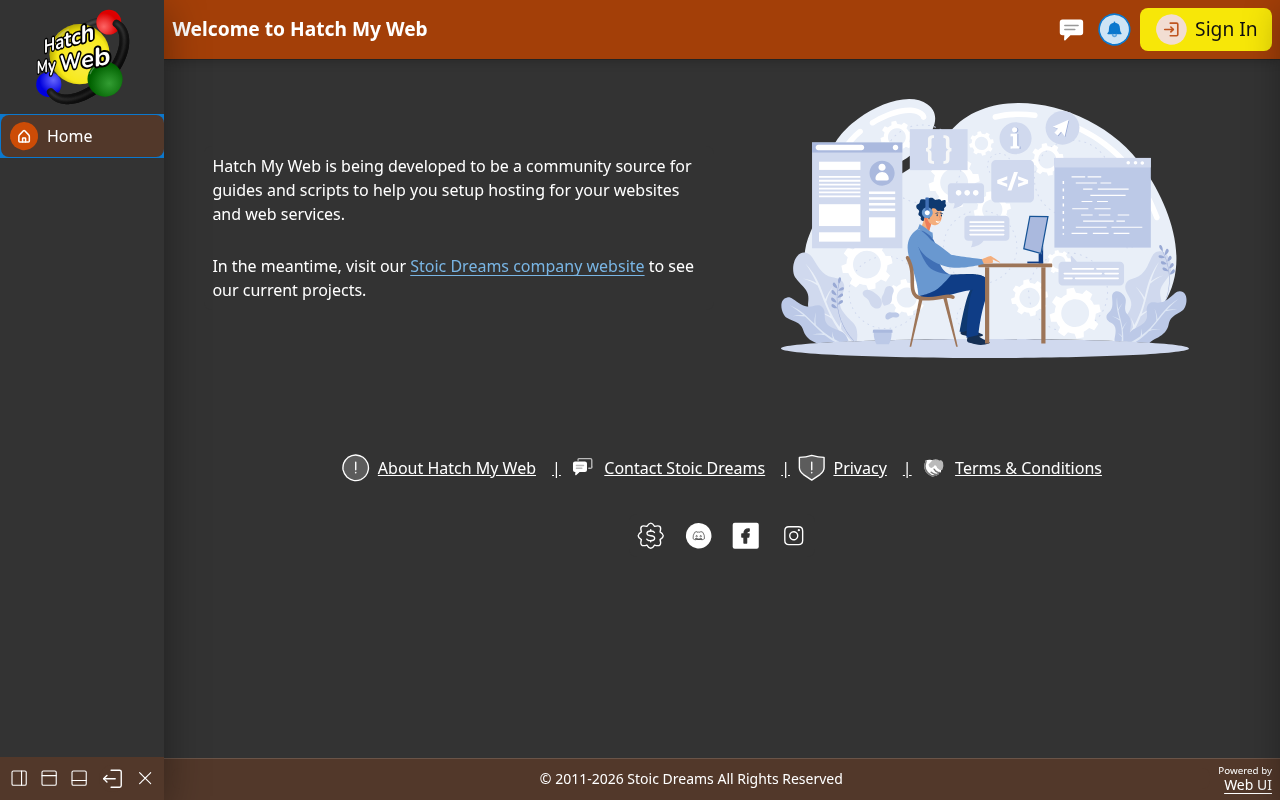
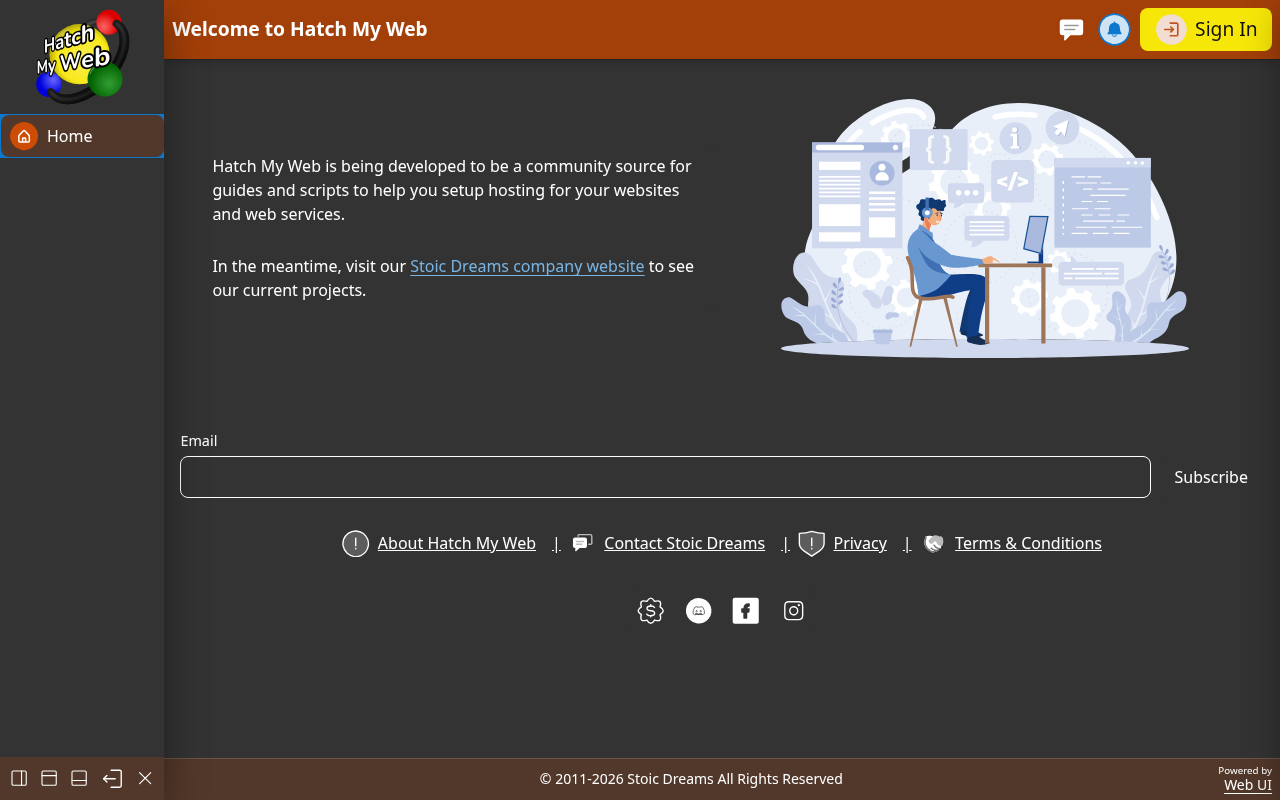
Stoic Dreams newsletter signup Feature: The footer has the Stoic Dreams newsletter signup form, as stoicdreams.com does

diff --git a/webapp/root_files/service-worker.min.js b/webapp/root_files/service-worker.min.js
@@ -1,1 +1,1 @@
-self.addEventListener("install",t=>t.waitUntil(onInstall(t))),self.addEventListener("activate",t=>t.waitUntil(onActivate(t))),self.addEventListener("fetch",t=>{const e=new URL(t.request.url);e.protocol==="ipc:"||e.protocol==="tauri:"||e.hostname==="ipc.localhost"||e.hostname==="tauri.localhost"||e.hostname.startsWith("127")||e.hostname==="localhost"||t.request.url.startsWith("http")&&allowCache(t.request)&&t.respondWith(onFetch(t))});const currentVersion="0.1.29",cacheNamePrefix="offline-cache-",cacheName=`${cacheNamePrefix}${currentVersion}`;async function onInstall(t){self.skipWaiting()}async function onActivate(t){const e=await caches.keys();await Promise.all(e.filter(a=>a.startsWith(cacheNamePrefix)&&a!==cacheName).map(a=>caches.delete(a))),await self.clients.claim()}async function onFetch(t){const e=await caches.open(cacheName);let a;try{a=await fetch(applyCacheBusting(t.request))}catch(n){const c=await e.match(t.request);if(c)return c;throw n}return a.ok?(t.waitUntil(e.put(t.request,a.clone()).catch(()=>{})),a):await e.match(t.request)||a}function applyCacheBusting(t){try{const e=new URL(t.url);return e.searchParams.set("_",Date.now()),new Request(e.toString(),t)}catch{return t}}function allowCache(t){return!(t.method!=="GET"||t.mode==="navigate")}
+self.addEventListener("install",t=>t.waitUntil(onInstall(t))),self.addEventListener("activate",t=>t.waitUntil(onActivate(t))),self.addEventListener("fetch",t=>{const e=new URL(t.request.url);e.protocol==="ipc:"||e.protocol==="tauri:"||e.hostname==="ipc.localhost"||e.hostname==="tauri.localhost"||e.hostname.startsWith("127")||e.hostname==="localhost"||t.request.url.startsWith("http")&&allowCache(t.request)&&t.respondWith(onFetch(t))});const currentVersion="0.1.30",cacheNamePrefix="offline-cache-",cacheName=`${cacheNamePrefix}${currentVersion}`;async function onInstall(t){self.skipWaiting()}async function onActivate(t){const e=await caches.keys();await Promise.all(e.filter(a=>a.startsWith(cacheNamePrefix)&&a!==cacheName).map(a=>caches.delete(a))),await self.clients.claim()}async function onFetch(t){const e=await caches.open(cacheName);let a;try{a=await fetch(applyCacheBusting(t.request))}catch(n){const c=await e.match(t.request);if(c)return c;throw n}return a.ok?(t.waitUntil(e.put(t.request,a.clone()).catch(()=>{})),a):await e.match(t.request)||a}function applyCacheBusting(t){try{const e=new URL(t.url);return e.searchParams.set("_",Date.now()),new Request(e.toString(),t)}catch{return t}}function allowCache(t){return!(t.method!=="GET"||t.mode==="navigate")}

diff --git a/webapp/pages/index.html b/webapp/pages/index.html
@@ -81,12 +81,13 @@
 	<link rel="preload" as="script" href="https://cdn.myfi.ws/webui/link.min.js" crossorigin="anonymous" />
 	<link rel="preload" as="script" href="https://cdn.myfi.ws/webui/myfi-info.min.js" crossorigin="anonymous" />
 	<link rel="preload" as="script" href="https://cdn.myfi.ws/webui/nav.min.js" crossorigin="anonymous" />
+	<link rel="preload" as="script" href="https://cdn.myfi.ws/webui/newsletter.min.js" crossorigin="anonymous" />
 	<link rel="preload" as="script" href="https://cdn.myfi.ws/webui/next-page.min.js" crossorigin="anonymous" />
 	<link rel="preload" as="script" href="https://cdn.myfi.ws/webui/page-footer.min.js" crossorigin="anonymous" />
 	<link rel="preload" as="script" href="https://cdn.myfi.ws/webui/sideimage.min.js" crossorigin="anonymous" />
 	<link rel="preload" as="script" href="https://cdn.myfi.ws/webui/stoic-dreams-logo.min.js" crossorigin="anonymous" />
 	<link rel="preload" as="script" href="https://cdn.myfi.ws/webui/stoic-social-links.min.js" crossorigin="anonymous" />
-	<meta name="webui-prerender" content="25f60088da">
+	<meta name="webui-prerender" content="bbeb8bb4d0">
 </head>
 
 <body>
@@ -124,6 +125,7 @@
 		<noscript>Javascript is required to view this site</noscript>
 		<webui-page-footer copyright="2011" company="Stoic Dreams">
 			<webui-next-page theme="tertiary" data-subscribe="page-next-page"></webui-next-page>
+			<webui-newsletter key="703a9b5e-0a14-4ed7-9618-ce96ca4e3e21"></webui-newsletter>
 			<webui-flex class="my-3" justify="center" wrap>
 				<webui-link href="/about" icon="circle_exclamation|backing|bordered">About Hatch My Web</webui-link>
 				<webui-link href="/contact" icon="messages|fill|shade:tri">Contact Stoic Dreams</webui-link>

diff --git a/webapp/pages/about.html b/webapp/pages/about.html
@@ -83,11 +83,12 @@
 	<link rel="preload" as="script" href="https://cdn.myfi.ws/webui/link.min.js" crossorigin="anonymous" />
 	<link rel="preload" as="script" href="https://cdn.myfi.ws/webui/myfi-info.min.js" crossorigin="anonymous" />
 	<link rel="preload" as="script" href="https://cdn.myfi.ws/webui/nav.min.js" crossorigin="anonymous" />
+	<link rel="preload" as="script" href="https://cdn.myfi.ws/webui/newsletter.min.js" crossorigin="anonymous" />
 	<link rel="preload" as="script" href="https://cdn.myfi.ws/webui/next-page.min.js" crossorigin="anonymous" />
 	<link rel="preload" as="script" href="https://cdn.myfi.ws/webui/page-footer.min.js" crossorigin="anonymous" />
 	<link rel="preload" as="script" href="https://cdn.myfi.ws/webui/stoic-dreams-logo.min.js" crossorigin="anonymous" />
 	<link rel="preload" as="script" href="https://cdn.myfi.ws/webui/stoic-social-links.min.js" crossorigin="anonymous" />
-	<meta name="webui-prerender" content="2f42a8ba1c">
+	<meta name="webui-prerender" content="0b7f0fe3e7">
 </head>
 
 <body>
@@ -126,6 +127,7 @@
 		<noscript>Javascript is required to view this site</noscript>
 		<webui-page-footer copyright="2011" company="Stoic Dreams">
 			<webui-next-page theme="tertiary" data-subscribe="page-next-page"></webui-next-page>
+			<webui-newsletter key="703a9b5e-0a14-4ed7-9618-ce96ca4e3e21"></webui-newsletter>
 			<webui-flex class="my-3" justify="center" wrap>
 				<webui-link href="/about" icon="circle_exclamation|backing|bordered">About Hatch My Web</webui-link>
 				<webui-link href="/contact" icon="messages|fill|shade:tri">Contact Stoic Dreams</webui-link>

diff --git a/webapp/pages/contact.html b/webapp/pages/contact.html
@@ -83,11 +83,12 @@
 	<link rel="preload" as="script" href="https://cdn.myfi.ws/webui/link.min.js" crossorigin="anonymous" />
 	<link rel="preload" as="script" href="https://cdn.myfi.ws/webui/myfi-info.min.js" crossorigin="anonymous" />
 	<link rel="preload" as="script" href="https://cdn.myfi.ws/webui/nav.min.js" crossorigin="anonymous" />
+	<link rel="preload" as="script" href="https://cdn.myfi.ws/webui/newsletter.min.js" crossorigin="anonymous" />
 	<link rel="preload" as="script" href="https://cdn.myfi.ws/webui/next-page.min.js" crossorigin="anonymous" />
 	<link rel="preload" as="script" href="https://cdn.myfi.ws/webui/page-footer.min.js" crossorigin="anonymous" />
 	<link rel="preload" as="script" href="https://cdn.myfi.ws/webui/stoic-dreams-logo.min.js" crossorigin="anonymous" />
 	<link rel="preload" as="script" href="https://cdn.myfi.ws/webui/stoic-social-links.min.js" crossorigin="anonymous" />
-	<meta name="webui-prerender" content="688282feaa">
+	<meta name="webui-prerender" content="f7e09d2956">
 </head>
 
 <body>
@@ -124,6 +125,7 @@
 		<noscript>Javascript is required to view this site</noscript>
 		<webui-page-footer copyright="2011" company="Stoic Dreams">
 			<webui-next-page theme="tertiary" data-subscribe="page-next-page"></webui-next-page>
+			<webui-newsletter key="703a9b5e-0a14-4ed7-9618-ce96ca4e3e21"></webui-newsletter>
 			<webui-flex class="my-3" justify="center" wrap>
 				<webui-link href="/about" icon="circle_exclamation|backing|bordered">About Hatch My Web</webui-link>
 				<webui-link href="/contact" icon="messages|fill|shade:tri">Contact Stoic Dreams</webui-link>

diff --git a/webapp/pages/privacy.html b/webapp/pages/privacy.html
@@ -83,11 +83,12 @@
 	<link rel="preload" as="script" href="https://cdn.myfi.ws/webui/link.min.js" crossorigin="anonymous" />
 	<link rel="preload" as="script" href="https://cdn.myfi.ws/webui/myfi-info.min.js" crossorigin="anonymous" />
 	<link rel="preload" as="script" href="https://cdn.myfi.ws/webui/nav.min.js" crossorigin="anonymous" />
+	<link rel="preload" as="script" href="https://cdn.myfi.ws/webui/newsletter.min.js" crossorigin="anonymous" />
 	<link rel="preload" as="script" href="https://cdn.myfi.ws/webui/next-page.min.js" crossorigin="anonymous" />
 	<link rel="preload" as="script" href="https://cdn.myfi.ws/webui/page-footer.min.js" crossorigin="anonymous" />
 	<link rel="preload" as="script" href="https://cdn.myfi.ws/webui/stoic-dreams-logo.min.js" crossorigin="anonymous" />
 	<link rel="preload" as="script" href="https://cdn.myfi.ws/webui/stoic-social-links.min.js" crossorigin="anonymous" />
-	<meta name="webui-prerender" content="8ebdbd11e9">
+	<meta name="webui-prerender" content="32dc4730f6">
 </head>
 
 <body>
@@ -124,6 +125,7 @@
 		<noscript>Javascript is required to view this site</noscript>
 		<webui-page-footer copyright="2011" company="Stoic Dreams">
 			<webui-next-page theme="tertiary" data-subscribe="page-next-page"></webui-next-page>
+			<webui-newsletter key="703a9b5e-0a14-4ed7-9618-ce96ca4e3e21"></webui-newsletter>
 			<webui-flex class="my-3" justify="center" wrap>
 				<webui-link href="/about" icon="circle_exclamation|backing|bordered">About Hatch My Web</webui-link>
 				<webui-link href="/contact" icon="messages|fill|shade:tri">Contact Stoic Dreams</webui-link>

diff --git a/webapp/pages/terms.html b/webapp/pages/terms.html
@@ -83,11 +83,12 @@
 	<link rel="preload" as="script" href="https://cdn.myfi.ws/webui/link.min.js" crossorigin="anonymous" />
 	<link rel="preload" as="script" href="https://cdn.myfi.ws/webui/myfi-info.min.js" crossorigin="anonymous" />
 	<link rel="preload" as="script" href="https://cdn.myfi.ws/webui/nav.min.js" crossorigin="anonymous" />
+	<link rel="preload" as="script" href="https://cdn.myfi.ws/webui/newsletter.min.js" crossorigin="anonymous" />
 	<link rel="preload" as="script" href="https://cdn.myfi.ws/webui/next-page.min.js" crossorigin="anonymous" />
 	<link rel="preload" as="script" href="https://cdn.myfi.ws/webui/page-footer.min.js" crossorigin="anonymous" />
 	<link rel="preload" as="script" href="https://cdn.myfi.ws/webui/stoic-dreams-logo.min.js" crossorigin="anonymous" />
 	<link rel="preload" as="script" href="https://cdn.myfi.ws/webui/stoic-social-links.min.js" crossorigin="anonymous" />
-	<meta name="webui-prerender" content="889bf1de7d">
+	<meta name="webui-prerender" content="e1e37407fb">
 </head>
 
 <body>
@@ -124,6 +125,7 @@
 		<noscript>Javascript is required to view this site</noscript>
 		<webui-page-footer copyright="2011" company="Stoic Dreams">
 			<webui-next-page theme="tertiary" data-subscribe="page-next-page"></webui-next-page>
+			<webui-newsletter key="703a9b5e-0a14-4ed7-9618-ce96ca4e3e21"></webui-newsletter>
 			<webui-flex class="my-3" justify="center" wrap>
 				<webui-link href="/about" icon="circle_exclamation|backing|bordered">About Hatch My Web</webui-link>
 				<webui-link href="/contact" icon="messages|fill|shade:tri">Contact Stoic Dreams</webui-link>

diff --git a/webapp/index.html b/webapp/index.html
@@ -110,6 +110,7 @@
 		<noscript>Javascript is required to view this site</noscript>
 		<webui-page-footer copyright="2011" company="Stoic Dreams">
 			<webui-next-page theme="tertiary" data-subscribe="page-next-page"></webui-next-page>
+			<webui-newsletter key="703a9b5e-0a14-4ed7-9618-ce96ca4e3e21"></webui-newsletter>
 			<webui-flex class="my-3" justify="center" wrap>
 				<webui-link href="/about" icon="circle_exclamation|backing|bordered">About {APP_NAME}</webui-link>
 				<webui-link href="/contact" icon="messages|fill|shade:tri">Contact {COMPANY_SINGULAR}</webui-link>

diff --git a/webapp/root_files/service-worker.js b/webapp/root_files/service-worker.js
@@ -20,7 +20,7 @@ self.addEventListener('fetch', event => {
     }
     event.respondWith(onFetch(event))
 });
-const currentVersion = '0.1.29';
+const currentVersion = '0.1.30';
 const cacheNamePrefix = 'offline-cache-';
 const cacheName = `${cacheNamePrefix}${currentVersion}`;
 async function onInstall(event) {

diff --git a/Docs/README.md b/Docs/README.md
@@ -1,6 +1,6 @@
 # Hatch My Web
 
-[Version: 0.1.29](https://github.com/StoicDreams/HatchMyWeb)
+[Version: 0.1.30](https://github.com/StoicDreams/HatchMyWeb)
 
 [WebUI](https://github.com/StoicDreams/WebUI)
 
